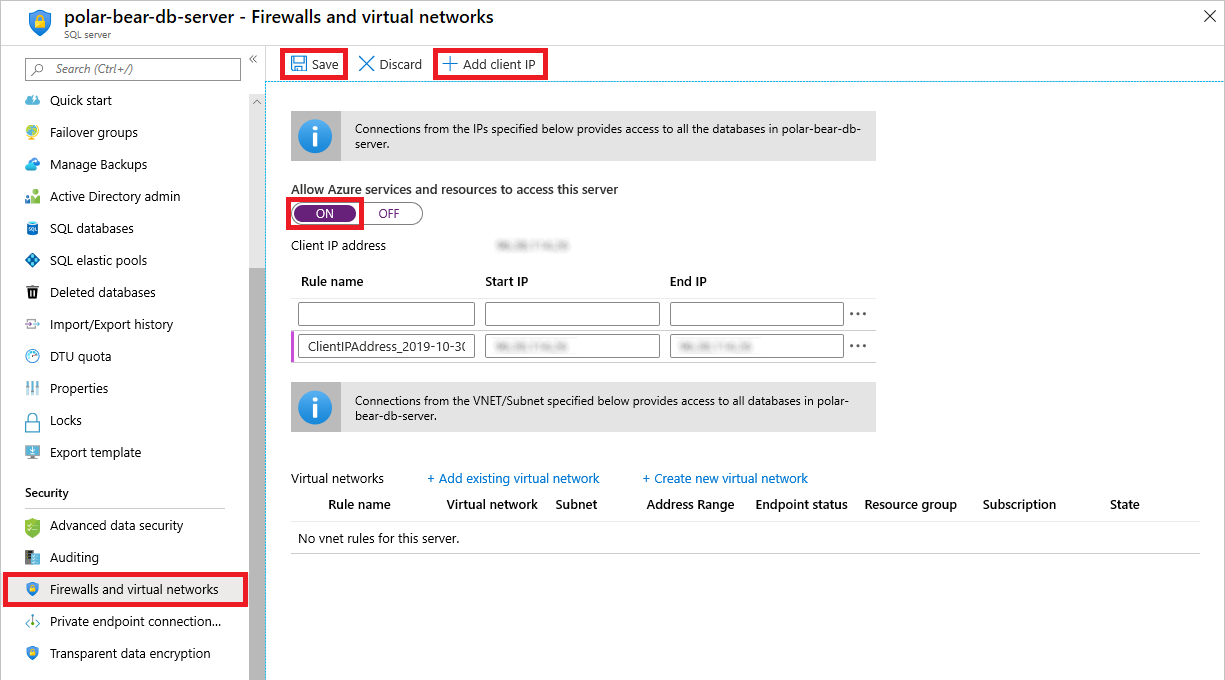
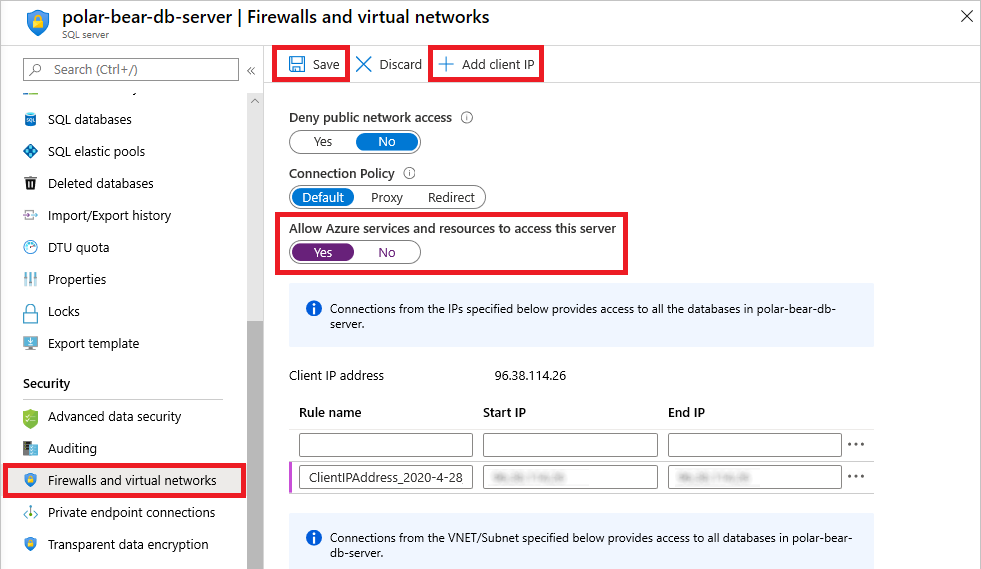
Updated polar-bear lab

diff --git a/Combat Climate Change with AI and Azure/includes/4-azure-sql-database.md b/Combat Climate Change with AI and Azure/includes/4-azure-sql-database.md
@@ -1,6 +1,6 @@
 # Deploy an Azure SQL Database #
 
-In the unit, you wrote an Azure Function that passes each photo uploaded to a blob container to the Custom Vision Service to determine whether the photo contains a polar bear. The only output from the function was log output showing the verdict rendered by the Custom Vision Service, as well as the ID and location of the camera that snapped the photo. In this unit, you will create an [Azure SQL Database](https://azure.microsoft.com/services/sql-database/) and modify the function to write to the database. This will set the stage for visualizing polar-bear sightings in Power BI, which will draw information about what's being spotted and where from the database.
+In the previous unit, you wrote an Azure Function that passes each photo uploaded to a blob container to the Custom Vision Service to determine whether the photo contains a polar bear. The only output from the function was log output showing the verdict rendered by the Custom Vision Service, as well as the ID and location of the camera that snapped the photo. Now you will create an [Azure SQL Database](https://azure.microsoft.com/services/sql-database/) and modify the function to write to the database. This will set the stage for visualizing polar-bear sightings in Power BI, which will draw information about what's being spotted and where from the database.
 
 ## Create an Azure SQL Database ##
 
@@ -12,7 +12,7 @@ Let's begin by using the Azure Cloud Shell to create an Azure SQL Database. This
 
     _Opening the Azure Cloud Shell_
 
-1. Execute the following command in the Cloud Shell to create a database server in the "polar-bear-rg" resource group. Replace SERVER_NAME with the name you wish to assign the database server, and replace ADMIN_USERNAME and ADMIN_PASSWORD with the user name and password for an admin user. **Remember the user name and password** you enter, because you will need them later.
+1. Execute the following command in the Cloud Shell to create a database server in the "polar-bear-rg" resource group. Replace SERVER_NAME with the name you wish to assign the database server, and replace ADMIN_USERNAME and ADMIN_PASSWORD with the user name and password for an admin user. **Remember the user name and password** you enter, because you will need them later. Also remember that you can use **Shift+Ins** to paste commands into the Cloud Shell.
 
 	```
 	az sql server create --name SERVER_NAME --resource-group polar-bear-rg --location southcentralus --admin-user ADMIN_USERNAME --admin-password ADMIN_PASSWORD
@@ -26,7 +26,7 @@ Let's begin by using the Azure Cloud Shell to create an Azure SQL Database. This
 	az sql db create --resource-group polar-bear-rg --server SERVER_NAME --name DATABASE_NAME --service-objective S0
 	```
 
-1. Go to the database server in the [Azure Portal](https://portal.azure.com) and click **Firewalls and virtual networks** in the menu on the left. Turn on **Allow access to Azure services** to allow other Azure services to connect to the server, and click **+ Add client IP** so you can connect to the database from Power BI Desktop later. Then click **Save** at the top of the blade to save these changes.
+1. Go to the database server in the [Azure Portal](https://portal.azure.com) and click **Firewalls and virtual networks** in the menu on the left. Turn on **Allow Azure services and resources to access this server** to allow Azure Functions and other Azure services to connect to the server, and click **+ Add client IP** so you can connect to the database from Power BI Desktop later. Then click **Save** at the top of the blade to save these changes.
 
 	![Configuring the database server](media/configure-database-server.png)
 
